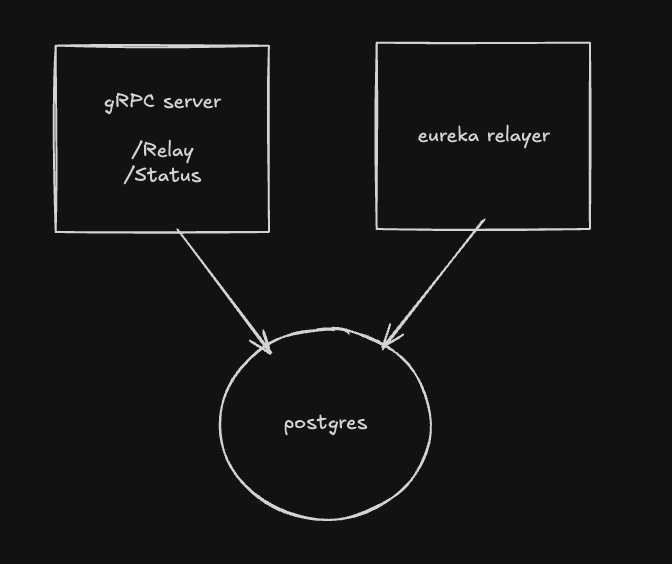
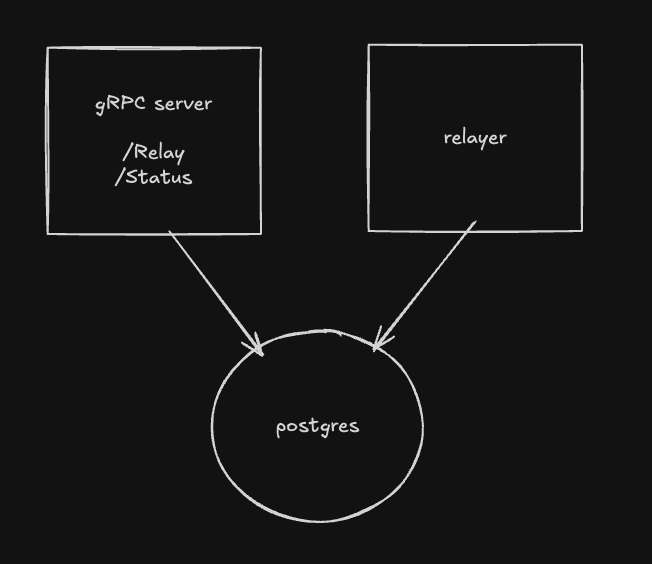
add more details about relayer design

diff --git a/docs/relayer.md b/docs/relayer.md
@@ -24,6 +24,10 @@ IBC v2 Relayer is a standalone, production-ready, request-driven relayer service
 
 ## Design
 ![Design](relayer-design.png)
+The relayer has three main components - the gRPC server which clients use to interact with the relayer, a postgres db, and the core relayer. The gRPC server populates the db with packets, which the core relayer monitors and updates as it progresses in relaying those packets.
+
+![Relaying Pipeline](relaying-pipeline.png)
+The relayer is designed as a pipeline which is composed of a set of asynchronously running processors. Transfers pass through the processors sequentially. Some pipeline steps process transfers individually while others process transfers in [batches](https://etherscan.io/tx/0x49c7d94cd2d28cadfdeccc546edc67548b31f2fa4d3126495453832ece919c8d).
 
 ## API Interface
 The relayer serves a gRPC server which clients use to specify what packets to relay and track packet relaying progress.
